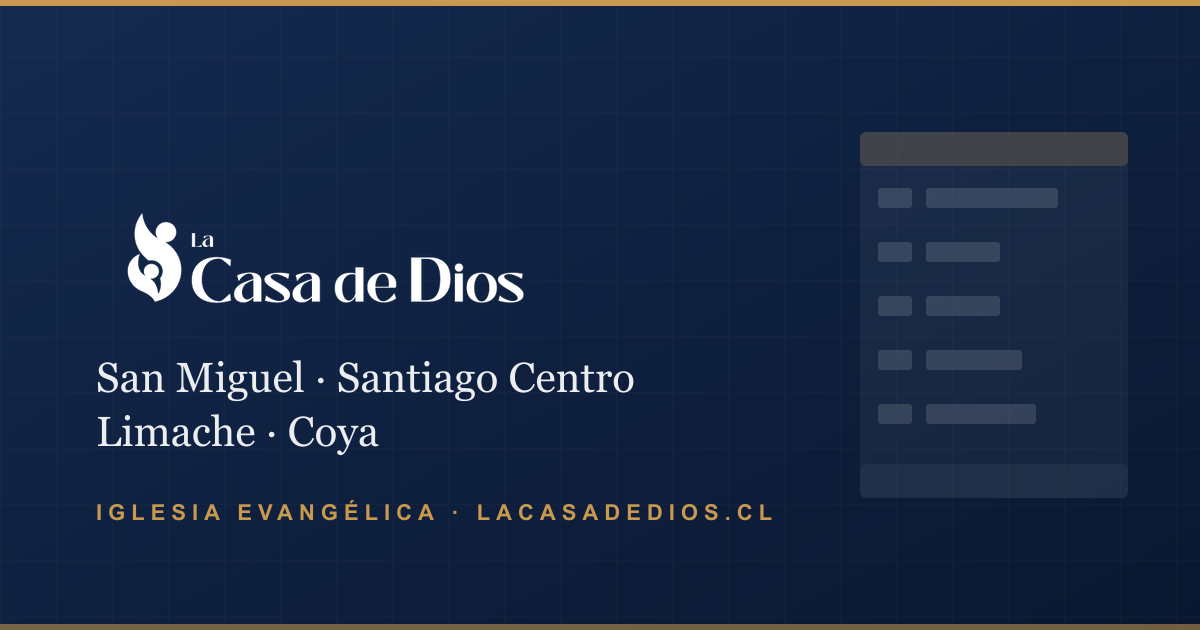
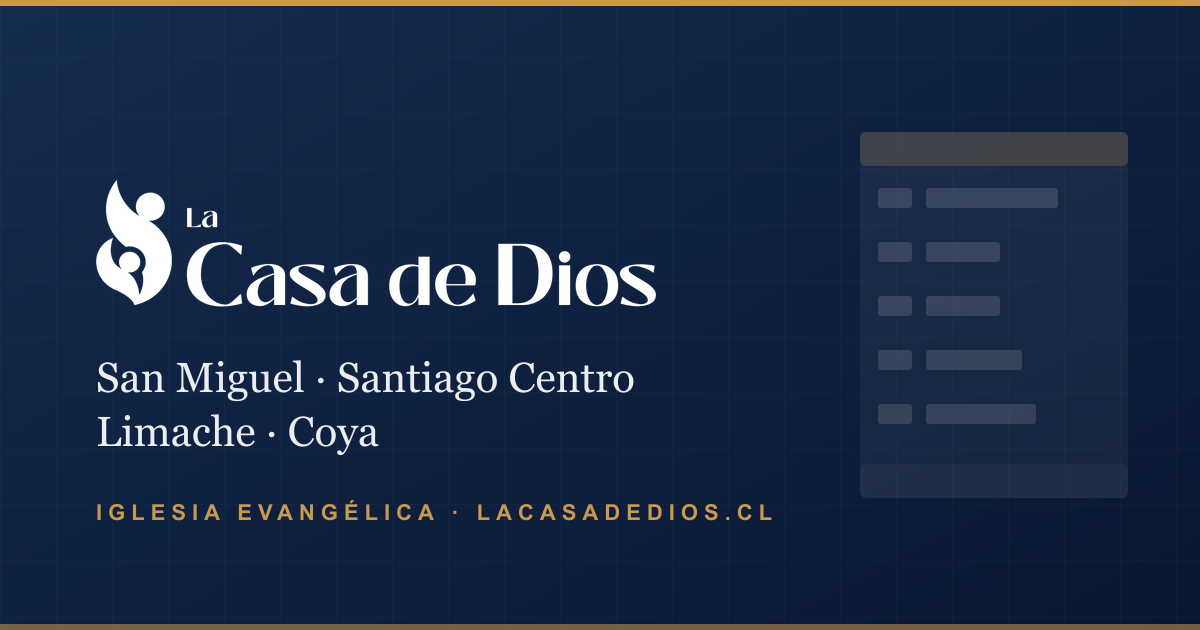
feat(marca): logotipos oficiales y el isotipo azul en la pestaña
Los archivos llegaron sueltos en una carpeta img/ en la raíz. Ahora viven en
public/marca/ con nombres consistentes —logo- para el conjunto, isotipo- para
la marca sola, y el color al final—, corrigiendo de paso «isogolo».

- La pestaña usaba todavía el logo por defecto de Astro. Se reemplaza por el
  isotipo azul: favicon.ico, 32 y 192 px, más apple-touch-icon de 180.
  scripts/favicons.mjs los regenera desde el PNG de origen.
- apple-touch-icon va sobre blanco a propósito: iOS aplana la transparencia
  contra negro y el azul de marca quedaría ilegible.
- Cada sitio usa ahora la variante que le corresponde en vez de teñir el logo
  negro con filtros: blanco en el hero, el pie, el panel y el ingreso; azul en
  la barra y en la cabecera móvil del panel. El filtro queda solo donde el
  fondo cambia con el scroll o con el tema, que es donde una segunda descarga
  no compensa.
- Ese filtro era además incorrecto para el archivo nuevo: `invert(1)` sobre el
  azul de marca da un beige, no blanco. Pasa a `brightness(0) invert(1)`, que
  da blanco puro venga del color que venga.
- Tamaños reajustados. El logotipo nuevo es 4,42:1 y el anterior 2,97:1, así
  que a igual altura ocupa un 49 % más de ancho: la barra baja a h-7/h-8 y el
  pie a h-9, mientras el hero sube a h-20 en escritorio, donde el logotipo es
  el titular de la página.
- scripts/og-image.mjs: `metadata()` sobre un pipeline pendiente devolvía las
[…]

Changed region(s): [[0.0617, 0.3016, 0.555, 0.4825]]

diff --git a/src/styles/global.css b/src/styles/global.css
@@ -397,15 +397,20 @@
   .prose-lcd ul { list-style: disc; padding-left: 1.35rem; }
   .prose-lcd ol { list-style: decimal; padding-left: 1.35rem; }
 
-  /* ── Logo ────────────────────────────────────────────────────────────────── */
+  /* ── Logo ─────────────────────────────────────────────────────────────────
+     La barra carga public/marca/logo-azul.png y lo blanquea con filtro cuando
+     el fondo se vuelve oscuro: el estado cambia con el tema y con el scroll,
+     así que una segunda descarga no compensa.
+
+     `brightness(0) invert(1)` y NO `invert(1) brightness(1.8)`: invertir el
+     azul de marca da un beige, no blanco. Llevar todo a negro primero y luego
+     invertir da blanco puro venga del color que venga. El pie y el hero, que
+     son oscuros siempre, usan directamente el archivo blanco. */
   .site-logo {
     transition: filter 0.3s ease;
   }
   [data-theme='churchdark'] .site-logo {
-    filter: invert(1) brightness(1.8);
-  }
-  .footer-logo {
-    filter: invert(1) brightness(1.8);
+    filter: brightness(0) invert(1);
   }
 
   /* ── Migas de pan ────────────────────────────────────────────────────────── */
